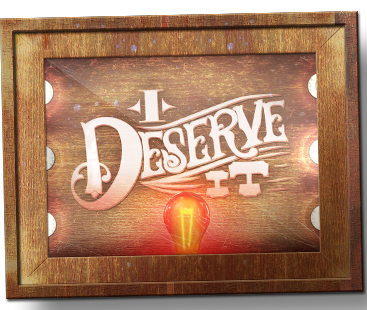
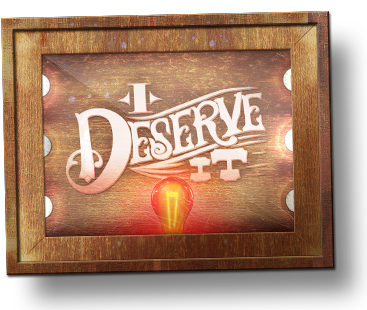
Image adjustment

diff --git a/_sass/pages/_home.scss b/_sass/pages/_home.scss
@@ -95,7 +95,7 @@
 
       @include media($medium-screen) {
         height: 385px;
-        margin: -60px auto 0px;
+        margin: -60px auto -15px;
       }
     }
   }
